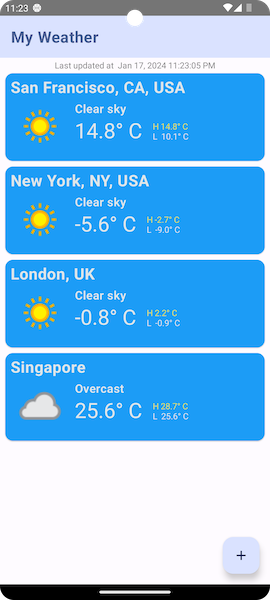
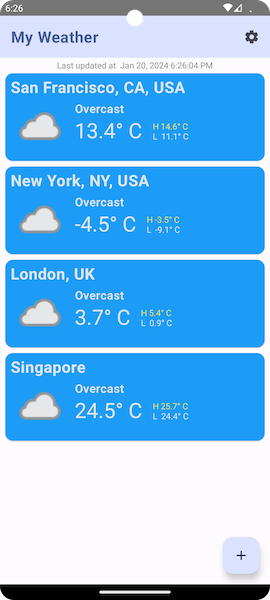
Temp unit setting (#10)
* - Settings dialog
- Temperature Unit settings

* - Update README

---------

diff --git a/app/src/main/java/com/singkong/myweather/compose/SettingsDialog.kt b/app/src/main/java/com/singkong/myweather/compose/SettingsDialog.kt
@@ -1,0 +1,128 @@
+package com.singkong.myweather.compose
+
+import androidx.compose.foundation.clickable
+import androidx.compose.foundation.layout.Column
+import androidx.compose.foundation.layout.Row
+import androidx.compose.foundation.layout.Spacer
+import androidx.compose.foundation.layout.fillMaxWidth
+import androidx.compose.foundation.layout.padding
+import androidx.compose.foundation.layout.width
+import androidx.compose.foundation.layout.widthIn
+import androidx.compose.foundation.rememberScrollState
+import androidx.compose.foundation.selection.selectable
+import androidx.compose.foundation.selection.selectableGroup
+import androidx.compose.foundation.verticalScroll
+import androidx.compose.material3.AlertDialog
+import androidx.compose.material3.Divider
+import androidx.compose.material3.MaterialTheme
+import androidx.compose.material3.RadioButton
+import androidx.compose.material3.Text
+import androidx.compose.runtime.Composable
+import androidx.compose.runtime.getValue
+import androidx.compose.runtime.livedata.observeAsState
+import androidx.compose.ui.Alignment
+import androidx.compose.ui.Modifier
+import androidx.compose.ui.platform.LocalConfiguration
+import androidx.compose.ui.res.dimensionResource
+import androidx.compose.ui.res.stringResource
+import androidx.compose.ui.semantics.Role
+import androidx.compose.ui.unit.dp
+import androidx.compose.ui.window.DialogProperties
+import androidx.hilt.navigation.compose.hiltViewModel
+import com.singkong.myweather.R
+import com.singkong.myweather.data.repo.TemperatureUnit
+import com.singkong.myweather.data.repo.UserPreferences
+import com.singkong.myweather.viewmodels.SettingsViewModel
+
+@Composable
+fun SettingsDialog(
+    onDismiss: () -> Unit,
+    viewModel: SettingsViewModel = hiltViewModel(),
+) {
+    val configuration = LocalConfiguration.current
+    val userPreferences by viewModel.userPreferences.observeAsState(initial = UserPreferences(0, TemperatureUnit.CELSIUS))
+
+    AlertDialog(
+        properties = DialogProperties(usePlatformDefaultWidth = false),
+        modifier = Modifier.widthIn(max = configuration.screenWidthDp.dp - dimensionResource(id = R.dimen.settings_dialog_width_margin)),
+        onDismissRequest = { onDismiss() },
+        title = {
+            Text(
+                text = stringResource(id = R.string.settings),
+                style = MaterialTheme.typography.titleLarge,
+            )
+        },
+        text = {
+            Divider()
+            Column(Modifier.verticalScroll(rememberScrollState())) {
+                SettingsPanel(userPreferences = userPreferences, onTemperatureUnitChanged = viewModel::updateTemperatureUnit)
+                Divider(Modifier.padding(top = dimensionResource(id = R.dimen.padding_small)))
+            }
+        },
+        confirmButton = {
+            Text(
+                text = stringResource(R.string.ok_button),
+                style = MaterialTheme.typography.bodyLarge,
+                color = MaterialTheme.colorScheme.primary,
+                modifier = Modifier
+                    .padding(horizontal = dimensionResource(id = R.dimen.padding_small))
+                    .clickable { onDismiss() },
+            )
+        },
+    )
+}
+
+@Composable
+private fun SettingsPanel(
+    userPreferences: UserPreferences,
+    onTemperatureUnitChanged: (unit: TemperatureUnit) -> Unit
+) {
+    SettingsDialogSectionTitle(text = stringResource(id = R.string.units_title))
+    Column(Modifier.selectableGroup()) {
+        SettingsDialogThemeChooserRow(
+            text = stringResource(R.string.temperature_unit_celsius),
+            selected = userPreferences.temperatureUnit == TemperatureUnit.CELSIUS,
+            onClick = { onTemperatureUnitChanged(TemperatureUnit.CELSIUS) },
+        )
+        SettingsDialogThemeChooserRow(
+            text = stringResource(R.string.temperature_unit_fahrenheit),
+            selected = userPreferences.temperatureUnit == TemperatureUnit.FAHRENHEIT,
+            onClick = { onTemperatureUnitChanged(TemperatureUnit.FAHRENHEIT) },
+        )
+    }
+}
+
+@Composable
+private fun SettingsDialogSectionTitle(text: String) {
+    Text(
+        text = text,
+        style = MaterialTheme.typography.titleMedium,
+        modifier = Modifier.padding(top = dimensionResource(id = R.dimen.padding_large), bottom = dimensionResource(id = R.dimen.padding_small)),
+    )
+}
+
+@Composable
+fun SettingsDialogThemeChooserRow(
+    text: String,
+    selected: Boolean,
+    onClick: () -> Unit,
+) {
+    Row(
+        Modifier
+            .fillMaxWidth()
+            .selectable(
+                selected = selected,
+                role = Role.RadioButton,
+                onClick = onClick,
+            )
+            .padding(dimensionResource(id = R.dimen.padding_medium)),
+        verticalAlignment = Alignment.CenterVertically,
+    ) {
+        RadioButton(
+            selected = selected,
+            onClick = null,
+        )
+        Spacer(Modifier.width(dimensionResource(id = R.dimen.padding_small)))
+        Text(text)
+    }
+}

diff --git a/app/src/main/java/com/singkong/myweather/compose/WeatherListScreen.kt b/app/src/main/java/com/singkong/myweather/compose/WeatherListScreen.kt
@@ -40,6 +40,7 @@ import androidx.compose.ui.res.painterResource
 import androidx.compose.ui.res.stringResource
 import androidx.compose.ui.text.style.TextAlign
 import com.singkong.myweather.R
+import com.singkong.myweather.data.repo.TemperatureUnit
 import com.singkong.myweather.data.weather.HourlyWeatherLog
 import com.singkong.myweather.data.weather.Location
 import com.singkong.myweather.data.weather.LocationAndWeatherLogs
@@ -107,7 +108,7 @@ fun WeatherListScreen(
                                     DismissBackground(dismissState = dismissState)
                                 },
                                 dismissContent = {
-                                    WeatherListItem(it)
+                                    WeatherListItem(it, userPreferences)
                                 })
                         }
 
@@ -148,7 +149,7 @@ fun DismissBackground(dismissState: DismissState) {
 }
 
 @Composable
-fun WeatherListItem(locationAndWeatherLogs: LocationAndWeatherLogs) {
+fun WeatherListItem(locationAndWeatherLogs: LocationAndWeatherLogs, userPreferences: UserPreferences) {
 
     ElevatedCard(
         modifier = Modifier
@@ -171,16 +172,47 @@ fun WeatherListItem(locationAndWeatherLogs: LocationAndWeatherLogs) {
                 color = titleText,
                 text = locationAndWeatherLogs.location.name,
             )
-            WeatherDataScreen(locationAndWeatherLogs.hourlyWeatherLogs)
+            WeatherDataScreen(locationAndWeatherLogs.hourlyWeatherLogs, userPreferences = userPreferences)
         }
     }
 }
 
 @Composable
-fun WeatherDataScreen(hourlyWeatherLogList: List<HourlyWeatherLog>) {
+fun WeatherDataScreen(hourlyWeatherLogList: List<HourlyWeatherLog>, userPreferences: UserPreferences) {
 
     val noData = hourlyWeatherLogList.isEmpty()
     val currentHour = Calendar.getInstance().get(Calendar.HOUR_OF_DAY)
+
+    var tempUnit = if (userPreferences.temperatureUnit == TemperatureUnit.FAHRENHEIT) {
+        "F"
+    } else {
+        "C"
+    }
+
+    var currentTemperature: Double
+    var maxTemp: Double
+    var minTemp: Double
+    var currentTempStr = "--"
+    var maxTempStr = "--"
+    var minTempStr = "--"
+
+    if (!noData) {
+        currentTemperature = hourlyWeatherLogList[currentHour].temperature
+        maxTemp = hourlyWeatherLogList.maxBy { it.temperature}.temperature
+        minTemp = hourlyWeatherLogList.minBy { it.temperature}.temperature
+        currentTempStr = "$currentTemperature"
+        maxTempStr = "$maxTemp"
+        minTempStr = "$minTemp"
+
+        if (userPreferences.temperatureUnit == TemperatureUnit.FAHRENHEIT) {
+            currentTemperature = currentTemperature * 9 / 5 + 32
+            maxTemp = maxTemp * 9 / 5 + 32
+            minTemp = minTemp * 9 / 5 + 32
+            currentTempStr = "${currentTemperature.toInt()}"
+            maxTempStr = "${maxTemp.toInt()}"
+            minTempStr = "${minTemp.toInt()}"
+        }
+    }
 
     Row {
         Image(
@@ -206,7 +238,7 @@ fun WeatherDataScreen(hourlyWeatherLogList: List<HourlyWeatherLog>) {
                 Text(
                     style = MaterialTheme.typography.labelLarge,
                     color = currentTempText,
-                    text = "${if (noData) "--" else hourlyWeatherLogList[currentHour].temperature}° C",
+                    text = "$currentTempStr° $tempUnit",
                 )
 
                 Column (
@@ -220,14 +252,14 @@ fun WeatherDataScreen(hourlyWeatherLogList: List<HourlyWeatherLog>) {
                     Text(
                         style = MaterialTheme.typography.labelSmall,
                         color = highTempText,
-                        text = "H ${if (noData) "--" else hourlyWeatherLogList.maxBy { it.temperature}.temperature}° C",
+                        text = "H $maxTempStr° $tempUnit",
                     )
 
                     //Min temp for the day
                     Text(
                         style = MaterialTheme.typography.labelSmall,
                         color = currentTempText,
-                        text = "L  ${if (noData) "--" else hourlyWeatherLogList.minBy { it.temperature}.temperature}° C",
+                        text = "L  $minTempStr° $tempUnit",
                     )
                 }
             }

diff --git a/app/src/main/java/com/singkong/myweather/compose/HomeScreen.kt b/app/src/main/java/com/singkong/myweather/compose/HomeScreen.kt
@@ -4,9 +4,11 @@ import androidx.compose.foundation.layout.Column
 import androidx.compose.foundation.layout.padding
 import androidx.compose.material.icons.Icons
 import androidx.compose.material.icons.filled.Add
+import androidx.compose.material.icons.rounded.Settings
 import androidx.compose.material3.ExperimentalMaterial3Api
 import androidx.compose.material3.FloatingActionButton
 import androidx.compose.material3.Icon
+import androidx.compose.material3.IconButton
 import androidx.compose.material3.MaterialTheme
 import androidx.compose.material3.Scaffold
 import androidx.compose.material3.Text
@@ -15,9 +17,13 @@ import androidx.compose.material3.TopAppBarDefaults
 import androidx.compose.runtime.Composable
 import androidx.compose.runtime.getValue
 import androidx.compose.runtime.livedata.observeAsState
+import androidx.compose.runtime.mutableStateOf
+import androidx.compose.runtime.saveable.rememberSaveable
+import androidx.compose.runtime.setValue
 import androidx.compose.ui.Modifier
 import androidx.compose.ui.res.stringResource
 import com.singkong.myweather.R
+import com.singkong.myweather.data.repo.TemperatureUnit
 import com.singkong.myweather.data.weather.Location
 import com.singkong.myweather.data.repo.UserPreferences
 import com.singkong.myweather.viewmodels.WeatherListViewModel
@@ -29,7 +35,7 @@ fun HomeScreen(
     onFabClick: () -> Unit = {}
 ) {
     val locationAndWeatherLogsList by viewModel.locationWeatherLogsList.observeAsState(initial = emptyList())
-    val userPreferences by viewModel.userPreferences.observeAsState(initial = UserPreferences(0))
+    val userPreferences by viewModel.userPreferences.observeAsState(initial = UserPreferences(0, TemperatureUnit.CELSIUS))
 
     val locationList = mutableListOf<Location>()
     for (item in locationAndWeatherLogsList) {
@@ -37,13 +43,29 @@ fun HomeScreen(
     }
     viewModel.refreshForecast(locationList)
 
+    var showSettingsDialog by rememberSaveable { mutableStateOf(false) }
+
+    if (showSettingsDialog) {
+        SettingsDialog(
+            onDismiss = { showSettingsDialog = false },
+        )
+    }
+
     Scaffold(
         topBar = {
             TopAppBar(
                 colors = TopAppBarDefaults.topAppBarColors(
                     containerColor = MaterialTheme.colorScheme.primaryContainer,
                     titleContentColor = MaterialTheme.colorScheme.primary),
-                title = { Text(text = stringResource(id = R.string.app_name)) }
+                title = { Text(text = stringResource(id = R.string.app_name)) },
+                actions = {
+                    IconButton(onClick = { showSettingsDialog = true }) {
+                        Icon(
+                            imageVector = Icons.Rounded.Settings,
+                            contentDescription = stringResource(id = R.string.settings,),
+                        )
+                    }
+                }
             )
         },
         floatingActionButton = {

diff --git a/app/src/main/java/com/singkong/myweather/data/repo/UserPreferencesRepository.kt b/app/src/main/java/com/singkong/myweather/data/repo/UserPreferencesRepository.kt
@@ -5,6 +5,7 @@ import androidx.datastore.preferences.core.Preferences
 import androidx.datastore.preferences.core.edit
 import androidx.datastore.preferences.core.emptyPreferences
 import androidx.datastore.preferences.core.longPreferencesKey
+import androidx.datastore.preferences.core.stringPreferencesKey
 import kotlinx.coroutines.flow.Flow
 import kotlinx.coroutines.flow.catch
 import kotlinx.coroutines.flow.map
@@ -13,13 +14,19 @@ import java.util.Calendar
 import javax.inject.Inject
 
 data class UserPreferences(
-    val lastUpdatedTime: Long
+    val lastUpdatedTime: Long,
+    val temperatureUnit: TemperatureUnit
 )
+
+enum class TemperatureUnit {
+    FAHRENHEIT, CELSIUS
+}
 
 class UserPreferencesRepository @Inject constructor(private val dataStore: DataStore<Preferences>) {
 
     private object PreferencesKeys {
         val LAST_UPDATED = longPreferencesKey("last_updated")
+        val TEMPERATURE_UNIT = stringPreferencesKey("temperature_unit")
     }
 
     val userPreferences: Flow<UserPreferences> = dataStore.data
@@ -31,12 +38,19 @@ class UserPreferencesRepository @Inject constructor(private val dataStore: DataS
                 throw exception
             }
         }.map { preferences ->
-            UserPreferences(preferences[PreferencesKeys.LAST_UPDATED] ?: 0)
+            UserPreferences(preferences[PreferencesKeys.LAST_UPDATED] ?: 0,
+                TemperatureUnit.valueOf(preferences[PreferencesKeys.TEMPERATURE_UNIT] ?: TemperatureUnit.CELSIUS.name))
         }
 
     suspend fun updateLastUpdated() {
         dataStore.edit { preferences ->
             preferences[PreferencesKeys.LAST_UPDATED] = Calendar.getInstance().time.time
+        }
+    }
+
+    suspend fun updateTemperatureUnit(unit: TemperatureUnit) {
+        dataStore.edit { preferences ->
+            preferences[PreferencesKeys.TEMPERATURE_UNIT] = unit.name
         }
     }
 

diff --git a/app/src/main/java/com/singkong/myweather/viewmodels/SettingsViewModel.kt b/app/src/main/java/com/singkong/myweather/viewmodels/SettingsViewModel.kt
@@ -1,0 +1,26 @@
+package com.singkong.myweather.viewmodels
+
+import androidx.lifecycle.LiveData
+import androidx.lifecycle.ViewModel
+import androidx.lifecycle.asLiveData
+import androidx.lifecycle.viewModelScope
+import com.singkong.myweather.data.repo.TemperatureUnit
+import com.singkong.myweather.data.repo.UserPreferences
+import com.singkong.myweather.data.repo.UserPreferencesRepository
+import dagger.hilt.android.lifecycle.HiltViewModel
+import kotlinx.coroutines.launch
+import javax.inject.Inject
+
+@HiltViewModel
+class SettingsViewModel @Inject constructor(
+    private val userPreferencesRepository: UserPreferencesRepository
+) : ViewModel() {
+
+    val userPreferences: LiveData<UserPreferences> = userPreferencesRepository.userPreferences.asLiveData()
+
+    fun updateTemperatureUnit(unit: TemperatureUnit) {
+        viewModelScope.launch {
+            userPreferencesRepository.updateTemperatureUnit(unit)
+        }
+    }
+}

diff --git a/README.md b/README.md
@@ -15,6 +15,7 @@ google_api_key=<your Google access key>
 ![Screenshot2](/screenshots/Screenshot2.png)
 ![Screenshot3](/screenshots/Screenshot3.png)
 ![Screenshot4](/screenshots/Screenshot4.png)
+![Screenshot5](/screenshots/Screenshot5.png)
 
 ## Tech
 * Kotlin
@@ -34,7 +35,7 @@ google_api_key=<your Google access key>
 ## Features not yet implemented
 * ~~Splash screen~~
 * ~~Add/delete location~~
-* Temperature unit (F/C) settings
+* ~~Temperature unit (F/C) settings~~
 * Arrange and save order of locations
 * Error handling
 * Location’s weather detail screen that shows hourly weather forecast
